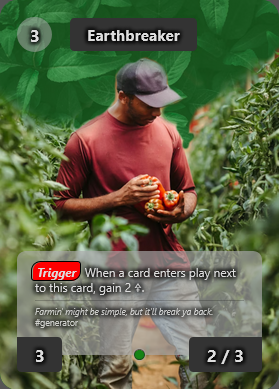
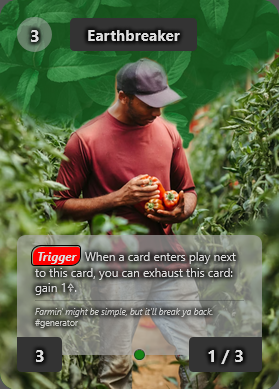
balance round after g vs b

Changed region(s): [[0.0573, 0.5861, 0.9462, 0.7712], [0.7455, 0.8946, 0.7742, 0.9563]]

diff --git a/src/cards/green.tsx b/src/cards/green.tsx
@@ -13,7 +13,7 @@ export const earthBreaker: CreatureCard = {
     <>
       <Trigger />
       <BodyText>
-        When a card enters play next to this card, gain 2 {SYMBOL_ENERGY}.
+        When a card enters play next to this card, you can exhaust this card: gain 1{SYMBOL_ENERGY}.
       </BodyText>
     </>,
     <Flavor>
@@ -21,7 +21,7 @@ export const earthBreaker: CreatureCard = {
     </Flavor>
   ],
   constructionCost: 3,
-  power: 2,
+  power: 1,
   toughness: 3,
   tags: ["generator"],
 }
@@ -47,7 +47,7 @@ export const fieldhand: CreatureCard = {
   ],
   constructionCost: 2,
   power: 1,
-  toughness: 3,
+  toughness: 2,
   tags: ["starter"],
 }
 
@@ -141,7 +141,7 @@ export const naturesReclaimant: CreatureCard = {
   ],
   constructionCost: 3,
   power: 2,
-  toughness: 3,
+  toughness: 2,
   tags: ["interaction"],
 }
 
@@ -167,7 +167,7 @@ export const lifetender: CreatureCard = {
   type: "creature",
   name: "Lifetender",
   color: "green",
-  cost: 3,
+  cost: 4,
   image: "lifetender",
   nodes: [
     <BodyText>Adjacent creatures gain +1/+1</BodyText>,
@@ -177,7 +177,7 @@ export const lifetender: CreatureCard = {
   ],
   constructionCost: 3,
   power: 1,
-  toughness: 3,
+  toughness: 2,
   tags: ["identity"],
 }
 
@@ -194,8 +194,8 @@ export const nightwatchman: CreatureCard = {
     </Flavor>
   ],
   constructionCost: 3,
-  power: 2,
-  toughness: 4,
+  power: 1,
+  toughness: 3,
   tags: ["consistency"],
 }
 

diff --git a/src/cards/black.tsx b/src/cards/black.tsx
@@ -67,7 +67,7 @@ export const triggerman: CreatureCard = {
   ],
   constructionCost: 2,
   power: 2,
-  toughness: 2,
+  toughness: 3,
   tags: ["generator"],
 }
 
@@ -248,7 +248,7 @@ export const treasureDiver: CreatureCard = {
   ],
   constructionCost: 3,
   power: 1,
-  toughness: 2,
+  toughness: 3,
   tags: ["extender"],
 }
 
